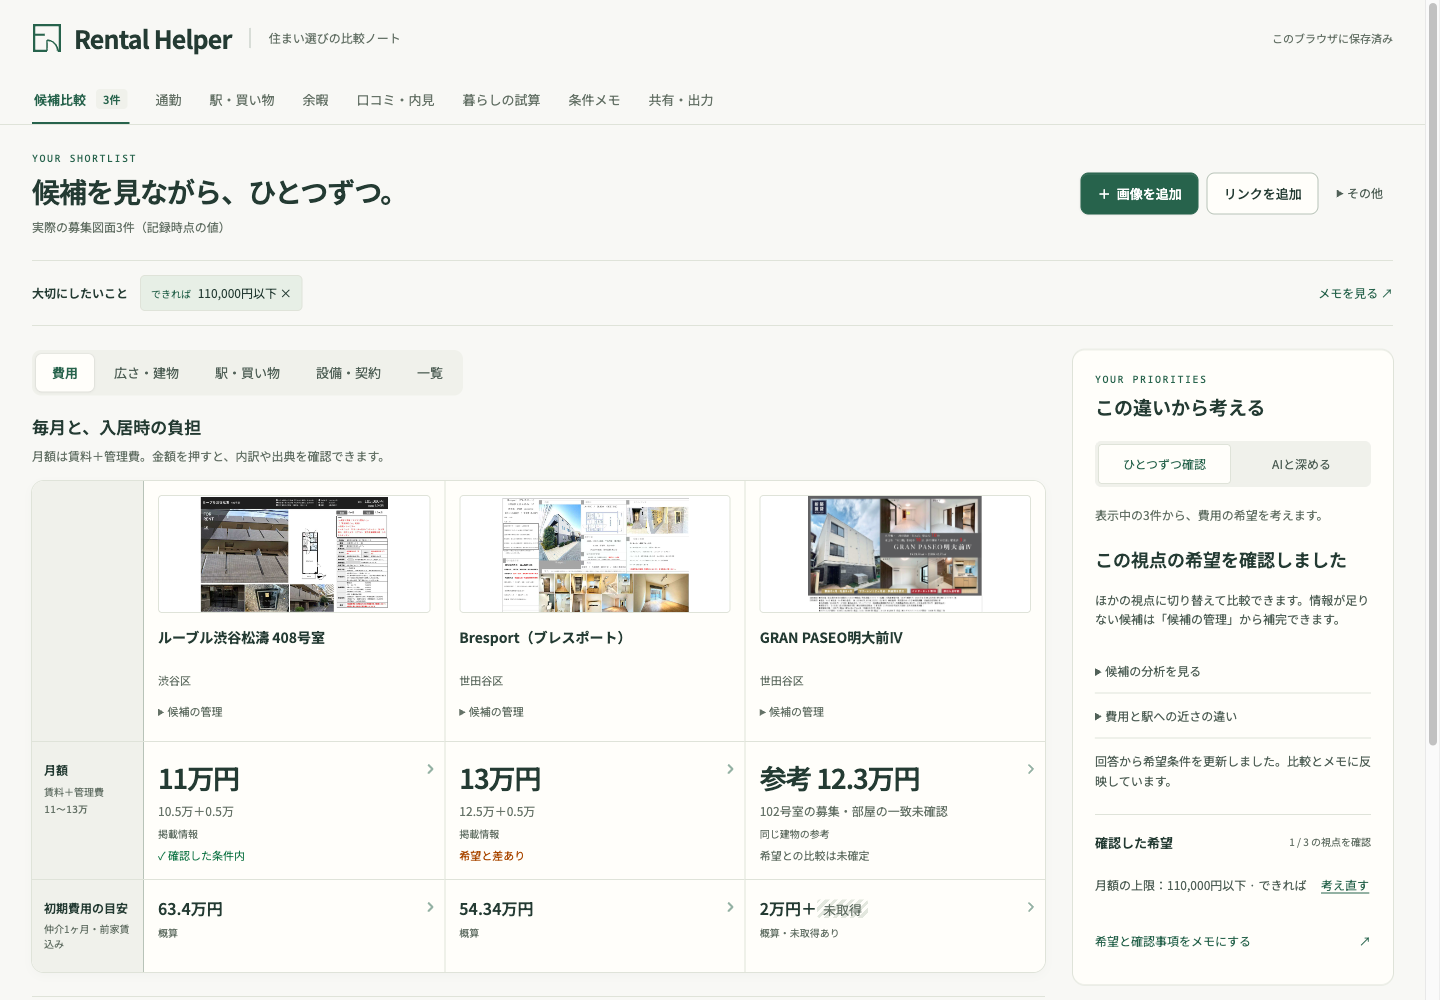
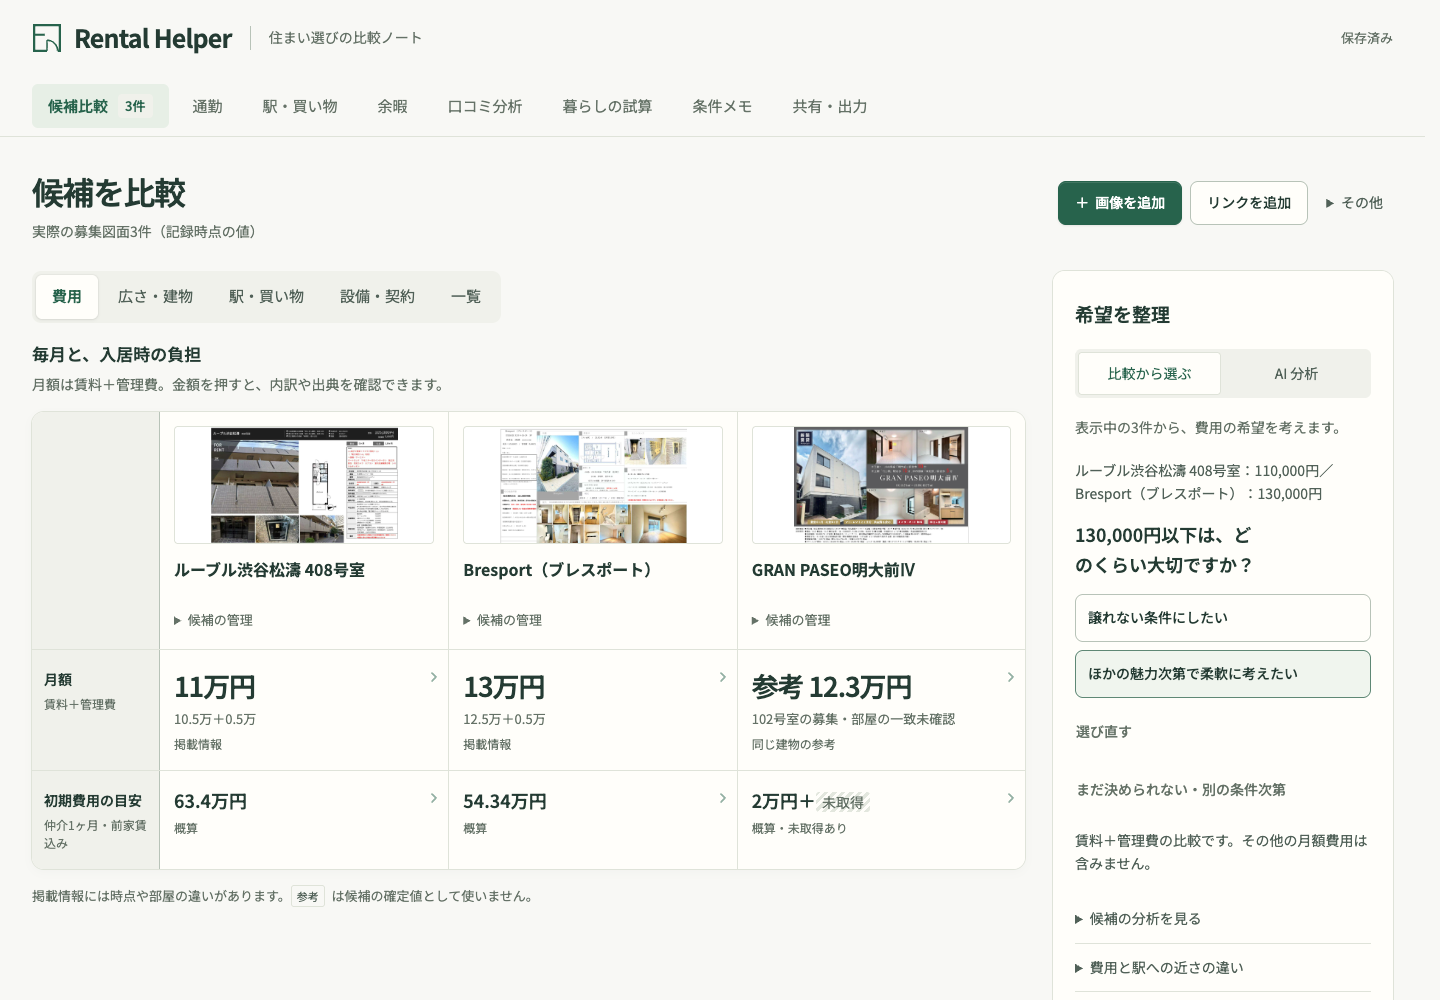
Document refined interface and refresh walkthrough screenshots

diff --git a/docs/UI_DESIGN.md b/docs/UI_DESIGN.md
@@ -17,9 +17,24 @@ This pass applies [Emil Kowalski's design engineering skill](https://github.com/
 | Commute/leisure/scenarios hidden inside access; reviews inside equipment; sharing below the memo | Eight visible desktop tabs and a grouped phone dropdown; each feature opens its own page with forms already visible | Make features discoverable without knowing where they used to be nested. |
 | No route identity for a feature | Dedicated hash links, Back/Forward and consistent title/selection | Let users return to the same tool and link directly to it. |
 
+## Typography and density
+
+The reading baseline is **16 px**, supporting copy is generally **14–15 px**, and page titles use **26–32 px**. Compact table annotations retain **12–13 px** on narrow phones. Shared tokens live in `app.css`; workspace and feature styles own their respective density and breakpoints.
+
+| Before | After |
+| --- | --- |
+| Small, similarly weighted navigation labels | Larger tabs with a filled selected state; the phone retains a native feature selector |
+| Promotional titles and repeated English captions | Short functional titles matching the navigation |
+| Repeated candidate names, price ranges and empty-priority instructions | Candidate counts, the actual comparison values, and priorities only after a choice/pending item exists |
+| Always-visible help beside every form | One main column; usage steps in a native disclosure below the controls/results |
+| Export actions below a long preview | Export/share controls above the preview, alongside explicit inclusion options |
+| Long save-status text crowds the phone header | Compact success status; storage failures remain fully reported |
+
+Source links, reference-price labels, unknown values, nearby-review scope and privacy choices remain visible. The inspector labels **比較から選ぶ / AI 分析** make both discovery methods explicit. Increasing font size exposed a 320 px perspective-tab overflow; the tab strip now scrolls within its own width without widening the document. Keyboard tab navigation remains immediate.
+
 ## Feature navigation
 
-The eight destinations are **候補比較 / 通勤 / 駅・買い物 / 余暇 / 口コミ分析 / 暮らしの試算 / 条件メモ / 共有・出力**. On mobile, a native grouped select replaces the tab row so every feature remains discoverable at 320 px. Each feature page shows candidate scope, its form, three steps and a relevant next destination. The review page is automatic analysis; the decision brief is generated and read-only. There are no manual diary or free-text requirement controls.
+The eight destinations are **候補比較 / 通勤 / 駅・買い物 / 余暇 / 口コミ分析 / 暮らしの試算 / 条件メモ / 共有・出力**. On mobile, a native grouped select replaces the tab row so every feature remains discoverable at 320 px. Each feature page shows a functional title, compact candidate count, its controls/results, and an optional **使い方を見る** disclosure with three steps and a relevant next destination. The review page is automatic analysis; the decision brief is generated and read-only. There are no manual diary or free-text requirement controls.
 
 Navigation toggles existing panels, so a draft or retrieved result survives switching. It never changes a confirmed preference. The reviews page starts an automatic public-web search when opened or when its candidate changes; a 30-minute session cache prevents repeated calls while navigating. Other tabs retain their explicit provider actions. Browser refresh restores the route but follows the existing rules for temporary Maps content. The comparison's mobile pair picker does not limit the standalone essentials page.
 
@@ -41,14 +56,14 @@ No duplicate tab lists, simulated gestures or custom modal focus traps are intro
 
 Start `npm run dev:web`, then run `npm run smoke:ui`. The [browser scenario](../scripts/browser-ui-smoke.js) uses an isolated Chromium session and requires no API credentials. It checks keyboard tabs, disclosure dismissal, focus return, interrupted dialog open/close, reduced motion, open/closed sheet resizing, 320/390/760 px touch layouts, 16 px form controls and dark mode. `npm run smoke:browser` additionally exercises the existing feature workflow with stubbed providers and a real local sharing API.
 
-Navigation checks additionally cover all eight desktop/mobile destinations, one selected tab, dropdown synchronization, draft preservation across Back/Forward, reload/deep links, legacy anchors and overflow on all eight pages at 320/390/760 px. The full feature check now traverses the top tabs from commute through leisure, scenarios, reviews, memo and sharing.
+Navigation checks additionally cover all eight desktop/mobile destinations, one selected tab, dropdown synchronization, draft preservation across Back/Forward, reload/deep links, legacy anchors and overflow on all eight pages at 320/390/760 px. Typography checks additionally cover 761/800/1024 px desktop navigation, the 16 px body baseline, and opening/closing the folded usage steps. The full feature check now traverses the top tabs from commute through leisure, scenarios, reviews, memo and sharing.
 
 [![Comparison workspace](images/compare.png)](images/compare.png)
 
 <details>
 <summary>Mobile question panel — actual recorded-candidate flow</summary>
 
-<img src="images/mobile-guide.png" width="390" alt="A mobile question panel asks which observed monthly amount the tenant would accept; choosing an answer still requires confirmation." />
+<img src="images/mobile-guide.png" width="390" alt="A mobile question panel asks which observed floor area the tenant would accept; choosing an answer still requires confirmation." />
 
 </details>
 
@@ -56,7 +71,7 @@ Browser emulation is not a physical-device sign-off. The soft keyboard, actual i
 
 ## Automatic review discovery
 
-The candidate selector is the entry point: choosing a home starts research, with a visible status and a manual refresh button. Results show short, source-linked AI summaries with building/unit scope and a posting date only when available. Unmatched buildings, listing copy and inaccessible pages are in a separate disclosure. No overall star score is inferred. Keyword-linked questions require an explicit click to enter the generated brief. The brief is read-only; preferences are refined through candidate-based choices rather than typed requirements.
+The mobile review screenshot uses a stubbed successful empty response to illustrate layout; it is not evidence of a live building search. The candidate selector is the entry point: choosing a home starts research, with a visible status and a manual refresh button. Results show short, source-linked AI summaries with building/unit scope and a posting date only when available. Unmatched buildings, listing copy and inaccessible pages are in a separate disclosure. No overall star score is inferred. Keyword-linked questions require an explicit click to enter the generated brief. The brief is read-only; preferences are refined through candidate-based choices rather than typed requirements.
 
 A successful search without usable reviews leaves the evidence area blank with a small completed status. Provider failure and pending search remain explicit states. A direct web-search link remains available. Error/results are cached only in memory; changing a candidate cancels and ignores old responses. The automated browser checks stub review retrieval so opening the new page never spends provider quota during those tests.
 

diff --git a/docs/VALIDATION.md b/docs/VALIDATION.md
@@ -7,6 +7,7 @@ This log distinguishes implemented behavior, deterministic checks, and actual pr
 | `npm test` | 103 frontend + 126 backend passed; 2 optional real-OCR tests skipped | Logic and provider contracts pass with stubs; not a model accuracy benchmark. |
 | Browser workflow | Desktop/mobile, destination confirmation, partial commute failure, leisure confirmation, scenario frequency, review-to-question, nearby/empty review states, generated memo, share defaults and HTML download | Google/Gemini responses stubbed; no synthetic results are shipped as live observations. |
 | UI polish checks | `npm run smoke:ui` passed: keyboard/focus, Escape/outside dismissal, interrupted native dialogs, reduced motion, open/closed sheet resizing, 320/390/760 px touch layouts, 16 px form inputs, dark mode. `npm run smoke:browser` and 103 frontend tests passed again after UI changes. | Chromium and touch emulation; real phone keyboard/safe-area/gesture checks remain open. [Design decisions](UI_DESIGN.md). |
+| Type/layout refinement | `npm run smoke:ui` checks the 16 px body baseline, 761/800/1024 px desktop navigation and folded help, in addition to all eight mobile pages. Screenshots refreshed after simplifying headings, candidate scope and export placement. | Local Chromium; providers are stubbed for layout/workflow checks. |
 | Feature navigation | All eight pages reachable from desktop tabs/mobile dropdown; Back/Forward retains drafts; reload and old deep links select the right page; all pages fit 320/390/760 px. Full stubbed-provider/share workflow passes through the new tabs. | Navigation retains mounted feature instances; it does not revalidate live provider coverage. |
 | Compose configuration | `docker compose ... config --quiet` passed; local Docker daemon was unavailable | API image build is left to CI; no local image-build claim. |
 | GitHub CI for the feature release | [Run 35641505498](https://github.com/SodaShikenn/rental-helper/actions/runs/35641505498) passed frontend, backend and Docker build/Compose jobs | The image built on GitHub; the public API has not been deployed. |
@@ -24,7 +25,7 @@ No claim of tenant-study results, resident identity verification, guaranteed rou
 
 The deployed-UI check also exposed a pre-existing new-link entry crash: the controller evaluated a candidate fingerprint before a candidate existed. A browser regression reproduced the failure before the cached-research guard was corrected; the same scenario passed afterward, including opening/closing the link dialog and restoring trigger focus.
 
-The review update adds deterministic tests for source-bound identity, Roman-numeral building names, room scope, opposing reports, unknown dates, advertisements/inaccessible pages, unsupported summaries, missing citations, provider failures, rate limits and browser cache/stale-response behavior. Fallback tests additionally verify tier order, early stopping, 300 m distance/type filtering, blank results and removal of legacy manual notes. Both browser suites passed after the update; they stub automatic review requests. The refreshed mobile screenshot shows the real provider-busy state, not invented reviews.
+The review update adds deterministic tests for source-bound identity, Roman-numeral building names, room scope, opposing reports, unknown dates, advertisements/inaccessible pages, unsupported summaries, missing citations, provider failures, rate limits and browser cache/stale-response behavior. Fallback tests additionally verify tier order, early stopping, 300 m distance/type filtering, blank results and removal of legacy manual notes. Both browser suites passed after the update; they stub automatic review requests. The current mobile review screenshot uses a stubbed empty-success response to demonstrate layout. It does not supersede the live provider-busy observation above.
 
 ## Provider contracts consulted
 

diff --git a/README.md b/README.md
@@ -24,7 +24,7 @@ Rental Helper brings candidate facts and sources together, asks focused question
 
 ## Find a feature
 
-Desktop: choose a top tab. Mobile: use **機能を選ぶ**. Each page shows its candidate scope and the next step; switching pages preserves current drafts and retrieved results until reload.
+Desktop: choose a top tab. Mobile: use **機能を選ぶ**. Each page puts its controls first, with usage tips under **使い方を見る**; switching pages preserves current drafts and retrieved results until reload.
 
 | Open the demo at… | What to do there |
 | --- | --- |
@@ -62,9 +62,9 @@ With the backend configured, missing monthly charges trigger research automatica
 <details>
 <summary><strong>02 — Discover: turn a vague preference into a confirmed choice</strong></summary>
 
-In **候補比較**, select **AIと深める** in the side panel (on mobile, open **この違いから希望を整理** first). With Gemini available, start candidate analysis: the conversation asks one evidence-linked question, offers choices and deferral, and proposes priorities for explicit acceptance.
+In **候補比較**, select **AI 分析** in the side panel (on mobile, open **この違いから希望を整理** first). With Gemini available, start candidate analysis: the conversation asks one evidence-linked question, offers choices and deferral, and proposes priorities for explicit acceptance.
 
-For a no-key walkthrough, use **費用 → ひとつずつ確認**. Pick a candidate-derived monthly budget, then choose whether it is a must-have or flexible preference. A tentative choice alone does not update requirements. After confirmation, inspect each candidate's fit, conflict or unknown state.
+For a no-key walkthrough, use **費用 → 比較から選ぶ**. Pick a candidate-derived monthly budget, then choose whether it is a must-have or flexible preference. A tentative choice alone does not update requirements. After confirmation, inspect each candidate's fit, conflict or unknown state.
 
 The screenshots use this real numeric fallback; they do not depict a fabricated live AI conversation.
 
